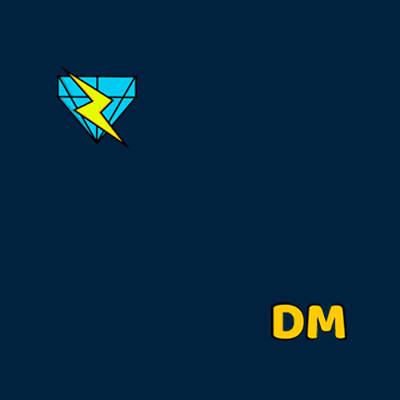
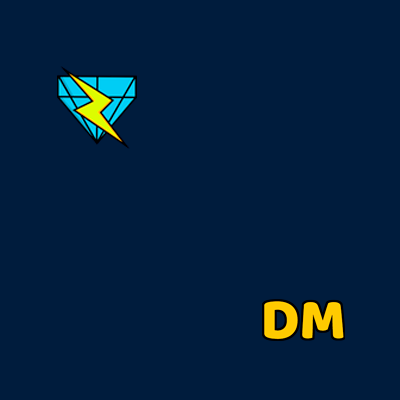
image and post fix

Changed region(s): [[0.63, 0.75, 0.87, 0.87]]

diff --git a/content/post/brainrot-1.md b/content/post/brainrot-1.md
@@ -1,6 +1,6 @@
 ---
 title: "Diccionario de Tik Tok I"
-date: 2024-08-06T17:00:35+02:00
+date: 2025-08-06T17:00:35+02:00
 draft: false
 ---
 TikTok es la red social con más influencia e importancia entre los jóvenes. La generación Z siempre hemos sido (prácticamente) la única generación activa en Internet, pero con el pasar de los años, estamos viendo que cada vez más la nueva generación *alfa* está abriendose paso por las plataformas digitales.

diff --git a/content/page/news.md b/content/page/news.md
@@ -29,4 +29,4 @@ Si quieres hablar conmigo de forma privada puedes desde email : **diamanuel.pm.m
 
 >Cambios en el fondo y nuevo post. 22/07/2025
 
->Nuevo post. 06/08/2025
+>Nuevo post y arreglo en las letras DM. 06/08/2025
